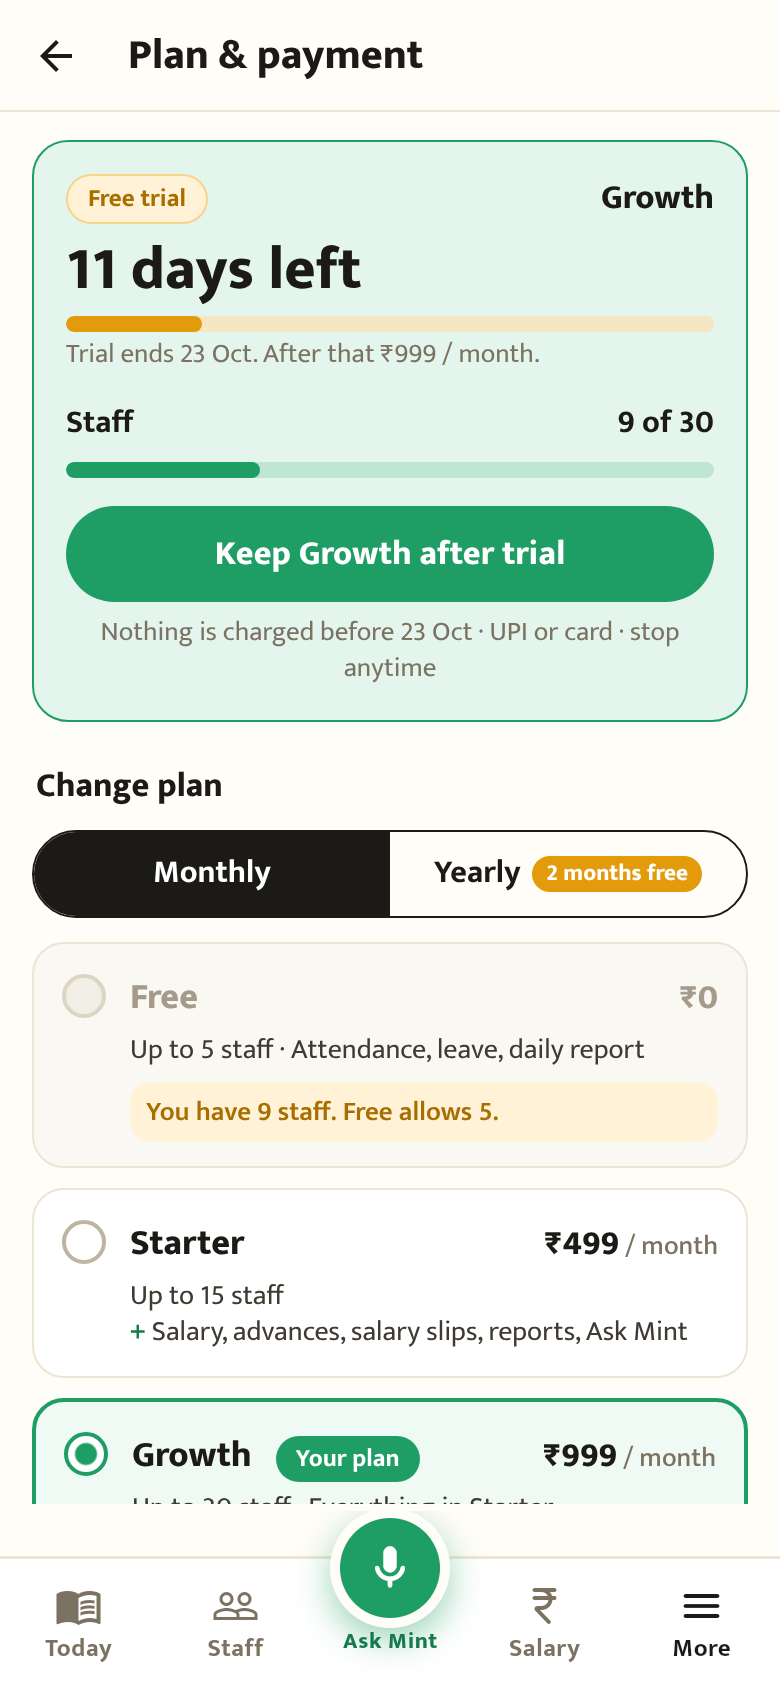
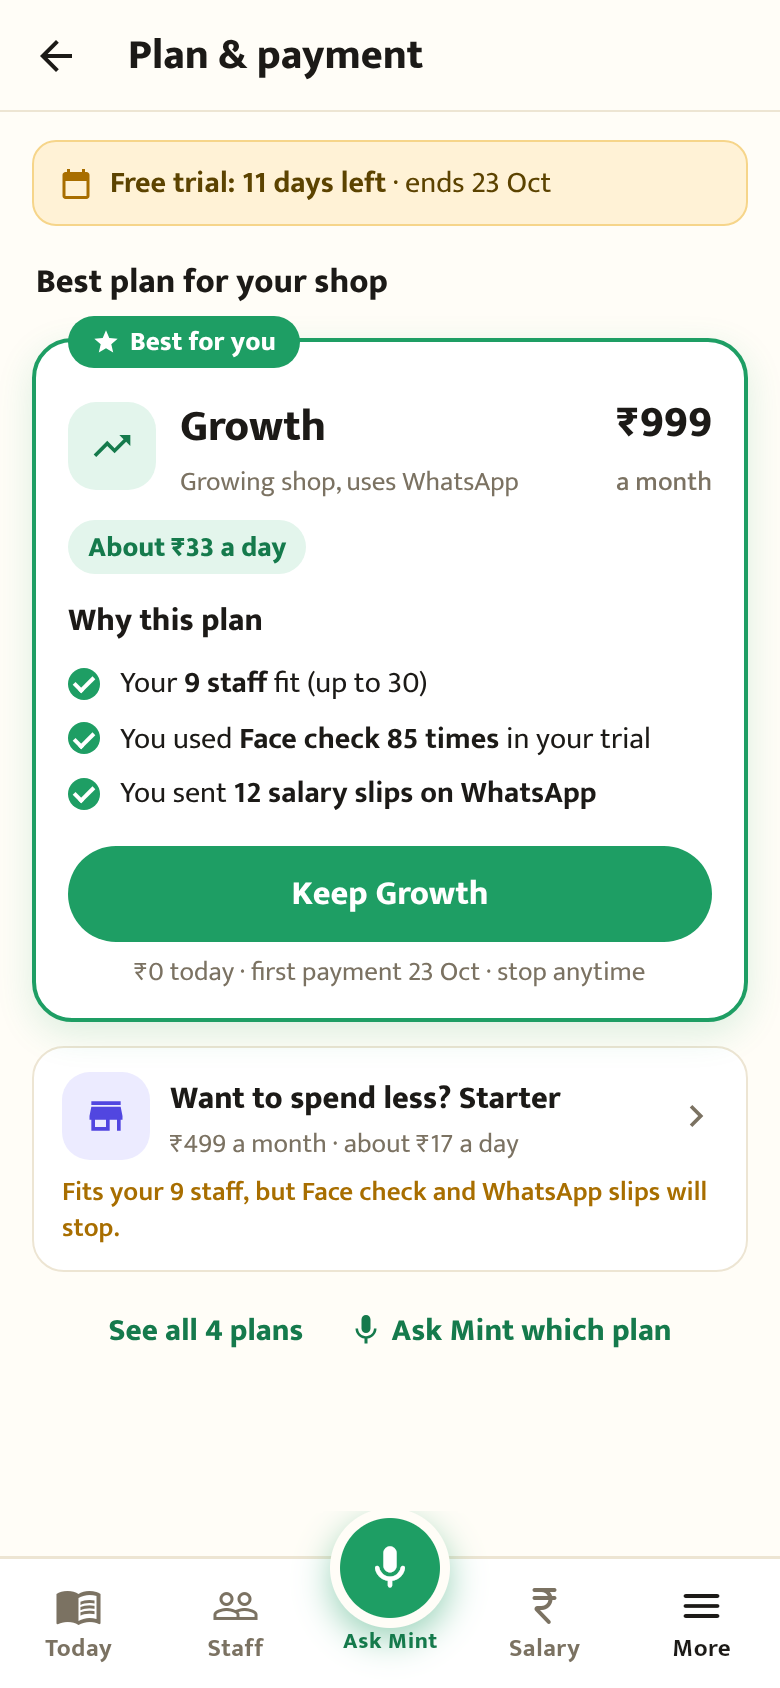
Billing mock-up v2: help people pick the right plan
Recommended plan with reasons from the shop's own use, colour and picture
per plan, who-it-is-for lines, price a day, picture compare table, and a
clear ₹0-today payment sheet. English and Hindi.

Claude-Session: https://claude.ai/code/session_01UQ7h9VsHKzjWVUS53Tigfm

diff --git a/docs/mockups/billing.html b/docs/mockups/billing.html
@@ -10,7 +10,7 @@
   h1 { font-size: 34px; margin: 0 0 6px; }
   h3 { margin: 28px 0 10px; }
   .sub { color: #7B7262; margin: 0 0 28px; font-size: 18px; }
-  .grid { display: grid; grid-template-columns: repeat(auto-fit, minmax(220px, 1fr)); gap: 22px; }
+  .grid { display: grid; grid-template-columns: repeat(auto-fit, minmax(200px, 1fr)); gap: 22px; }
   .col h2 { display: inline-block; font-size: 15px; color: #fff; padding: 3px 12px; border-radius: 999px; margin: 0 0 10px; }
   .before h2 { background: #D64545; } .after h2 { background: #1E9E64; }
   .col img { width: 100%; border-radius: 26px; border: 7px solid #1C1A17; box-sizing: border-box; }
@@ -25,37 +25,40 @@
 
   <h3>English</h3>
   <div class="grid">
-    <section class="col before"><h2>Before</h2><img src="images/billing/before-en-1.png" alt="Current plan card and the first plan cards"><p>Says the trial ends on 23 Oct, but not how many days are left or what you pay afterwards. Free has a big green "Choose plan" button even though the shop has 9 staff.</p></section>
-    <section class="col before"><h2>Before</h2><img src="images/billing/before-en-2.png" alt="Long plan cards with all features repeated"><p>Every card lists every feature again, so the page is about 5 screens long. "Your plan" is a grey button at the bottom of a card.</p></section>
-    <section class="col after"><h2>After</h2><img src="images/billing/after-en-1.png" alt="Status card with days left, staff bar and Keep Growth button"><p>"11 days left", the price after the trial, a staff bar, and one clear button: <b>Keep Growth after trial</b>. Free is greyed out: "You have 9 staff. Free allows 5."</p></section>
-    <section class="col after"><h2>After</h2><img src="images/billing/after-en-2.png" alt="Yearly prices with savings, short plan rows"><p>Yearly shows "2 months free", the monthly equivalent and the saving. Each plan is a short row: "Everything in Starter + …". Pro explains ₹30 per extra person.</p></section>
-    <section class="col after"><h2>After</h2><img src="images/billing/after-en-3.png" alt="Compare table, payments, receipts, one bill, stop plan"><p>One compare table instead of repeated chips. Next payment, GST receipts, one bill for all businesses, help on WhatsApp, and a clear "Stop plan".</p></section>
-    <section class="col after"><h2>After</h2><img src="images/billing/after-en-4.png" alt="Downgrade sheet listing what you lose"><p>Moving to a smaller plan first shows exactly what stops working and whether your staff still fit.</p></section>
+    <section class="col before"><h2>Before</h2><img src="images/billing/before-en-1.png" alt="Current plan card and the first plan cards"><p>Says the trial ends on 23 Oct, but not how many days are left, what you pay afterwards, or which plan suits you. Free has a big green "Choose plan" button even with 9 staff.</p></section>
+    <section class="col before"><h2>Before</h2><img src="images/billing/before-en-2.png" alt="Long plan cards with all features repeated"><p>Four look-alike cards repeat every feature, so the plans are hard to tell apart and the page is about 5 screens long.</p></section>
+    <section class="col after"><h2>1 · Best for you</h2><img src="images/billing/after-en-1.png" alt="Recommended plan with reasons"><p>One recommended plan with plain reasons taken from the shop's own use: "Your 9 staff fit", "You used Face check 85 times". Price per day ("about ₹33 a day"). A cheaper option is shown honestly with what you'd lose.</p></section>
+    <section class="col after"><h2>2 · All plans</h2><img src="images/billing/after-en-2.png" alt="Colour-coded plan cards"><p>Each plan has its own colour and picture, a "who it is for" line, staff limit, price a day, and only what it adds (with pictures). Plans that can't fit you say why.</p></section>
+    <section class="col after"><h2>3 · Compare</h2><img src="images/billing/after-en-3.png" alt="Compare table with icons"><p>One table with a picture per row and a tick per plan in that plan's colour, including Pro's CA login and fast help. Price a day at the bottom; price locked for 2 years.</p></section>
+    <section class="col after"><h2>4 · Keep plan</h2><img src="images/billing/after-en-4.png" alt="Payment steps sheet"><p>Before paying, 3 simple steps: ₹0 today, ₹999 on 23 Oct then monthly, GST receipt on WhatsApp. UPI, card or net banking.</p></section>
+    <section class="col after"><h2>5 · Payments</h2><img src="images/billing/after-en-5.png" alt="Payments, receipts, one bill, stop plan"><p>Next payment, GST receipts, one bill for all businesses, help on WhatsApp, and "Stop plan".</p></section>
+    <section class="col after"><h2>6 · Downgrade</h2><img src="images/billing/after-en-6.png" alt="Downgrade sheet"><p>Shows the saving and exactly what stops, using the shop's own numbers ("used 85 times").</p></section>
   </div>
 
   <h3>हिन्दी</h3>
   <div class="grid">
     <section class="col before"><h2>Before</h2><img src="images/billing/before-hi-1.png" alt="Hindi, current"></section>
     <section class="col before"><h2>Before</h2><img src="images/billing/before-hi-2.png" alt="Hindi, current, long cards"></section>
-    <section class="col after"><h2>After</h2><img src="images/billing/after-hi-1.png" alt="Hindi, status card"></section>
-    <section class="col after"><h2>After</h2><img src="images/billing/after-hi-2.png" alt="Hindi, yearly plans"></section>
-    <section class="col after"><h2>After</h2><img src="images/billing/after-hi-3.png" alt="Hindi, compare and payments"></section>
-    <section class="col after"><h2>After</h2><img src="images/billing/after-hi-4.png" alt="Hindi, downgrade sheet"></section>
+    <section class="col after"><h2>1</h2><img src="images/billing/after-hi-1.png" alt="Hindi, after 1"></section>
+    <section class="col after"><h2>2</h2><img src="images/billing/after-hi-2.png" alt="Hindi, after 2"></section>
+    <section class="col after"><h2>3</h2><img src="images/billing/after-hi-3.png" alt="Hindi, after 3"></section>
+    <section class="col after"><h2>4</h2><img src="images/billing/after-hi-4.png" alt="Hindi, after 4"></section>
+    <section class="col after"><h2>5</h2><img src="images/billing/after-hi-5.png" alt="Hindi, after 5"></section>
+    <section class="col after"><h2>6</h2><img src="images/billing/after-hi-6.png" alt="Hindi, after 6"></section>
   </div>
 
-  <h3>What changes</h3>
+  <h3>How it helps people pick the right plan</h3>
   <ol>
-    <li>Title matches the More menu: "Plan &amp; payment" / "प्लान और पेमेंट".</li>
-    <li>Status card: days left in the trial, the price after it, staff used out of the limit, and one main button.</li>
-    <li>Monthly / Yearly toggle shows "2 months free"; yearly prices show the per-month price and the saving.</li>
-    <li>Short plan rows that only list what each plan adds; a single compare table replaces repeated feature chips.</li>
-    <li>Plans that can't hold your staff are greyed out with the reason.</li>
-    <li>Downgrade confirmation lists what you lose. Upgrades go straight to payment as today.</li>
-    <li>New Payments section: next payment, GST receipts, one bill for all businesses (moved here), help on WhatsApp.</li>
-    <li>"Stop plan" button (the server already supports cancelling), with a note that data stays downloadable for 30 days.</li>
-    <li>Clearer names: "Ask Mint" instead of "Mint AI assistant", "More branches", "Face check at punch-in".</li>
+    <li><b>The app recommends one plan</b>: the cheapest plan that fits your staff and covers what you actually used in your trial (face check, WhatsApp slips, branches). It says why in plain words.</li>
+    <li><b>Honest cheaper option</b> right under it, with what would stop working.</li>
+    <li><b>Each plan looks different</b>: its own colour and picture (Free = sprout, Starter = shop, Growth = arrow up, Pro = building), the same everywhere on the screen.</li>
+    <li><b>"Who it is for" in one line</b>: "Just starting out", "One shop, pay salary in the app", "Growing shop, uses WhatsApp", "Big business, 30+ staff".</li>
+    <li><b>Price a day</b> (₹17 / ₹33 / ₹60) next to the monthly price, which is easier to judge.</li>
+    <li><b>Pictures with every feature</b>, so it can be understood without reading much, in English or Hindi.</li>
+    <li><b>"Ask Mint which plan"</b> for anyone who still isn't sure (voice).</li>
+    <li><b>No surprises when paying</b>: ₹0 today, the date of the first payment, price locked for 2 years, stop anytime.</li>
   </ol>
-  <p>Needs a small server addition for the receipts list (from Razorpay invoices). Everything else uses data the app already has.</p>
+  <p>Needs two small server additions: a "what you used in your trial" count for the recommendation, and the receipts list (from Razorpay invoices). Everything else uses data the app already has.</p>
 </main>
 </body>
 </html>
